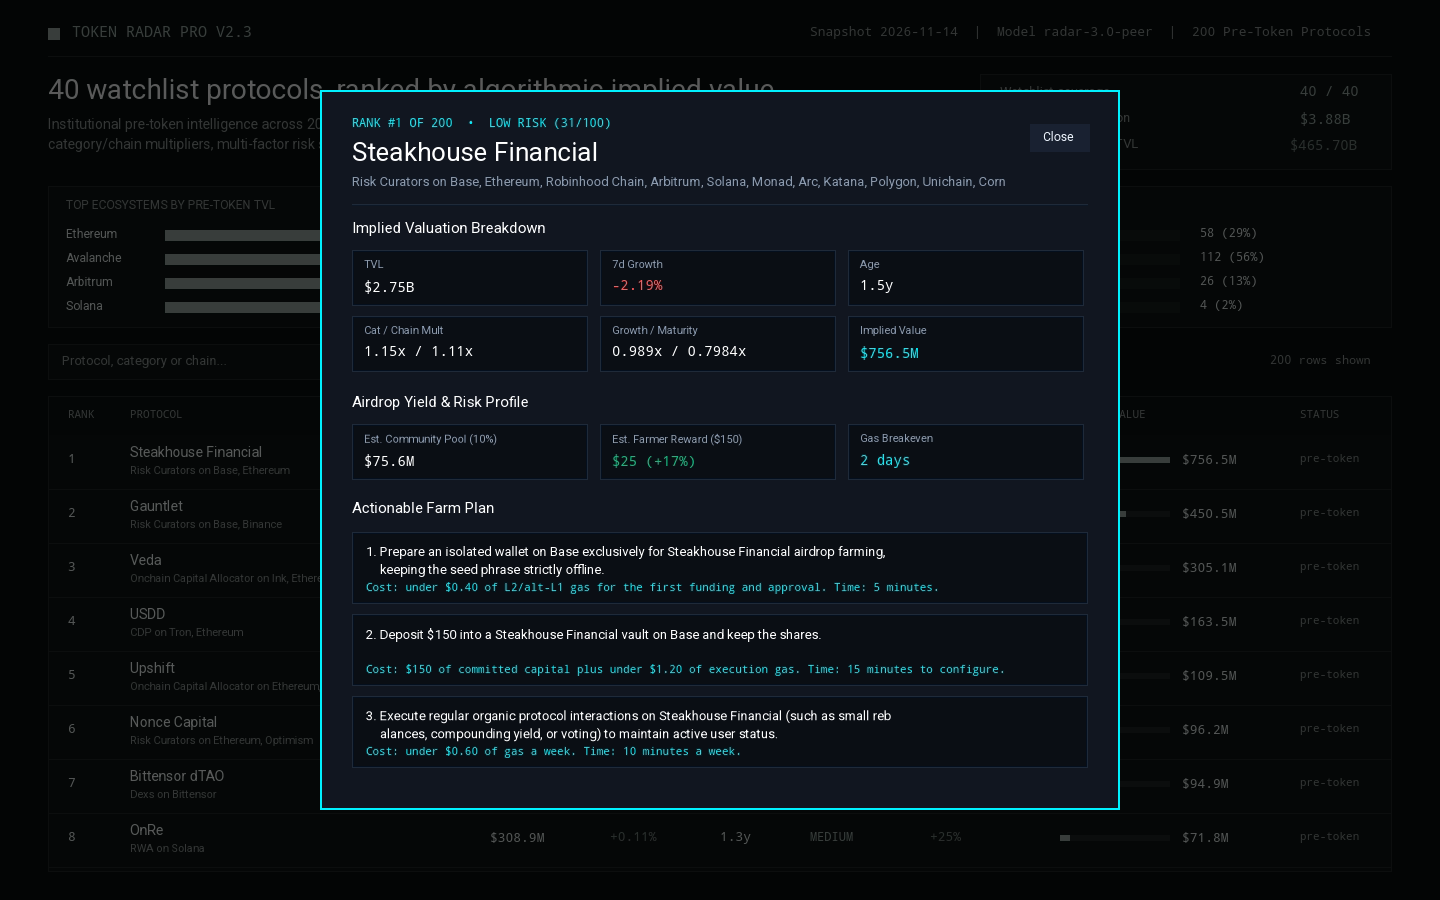
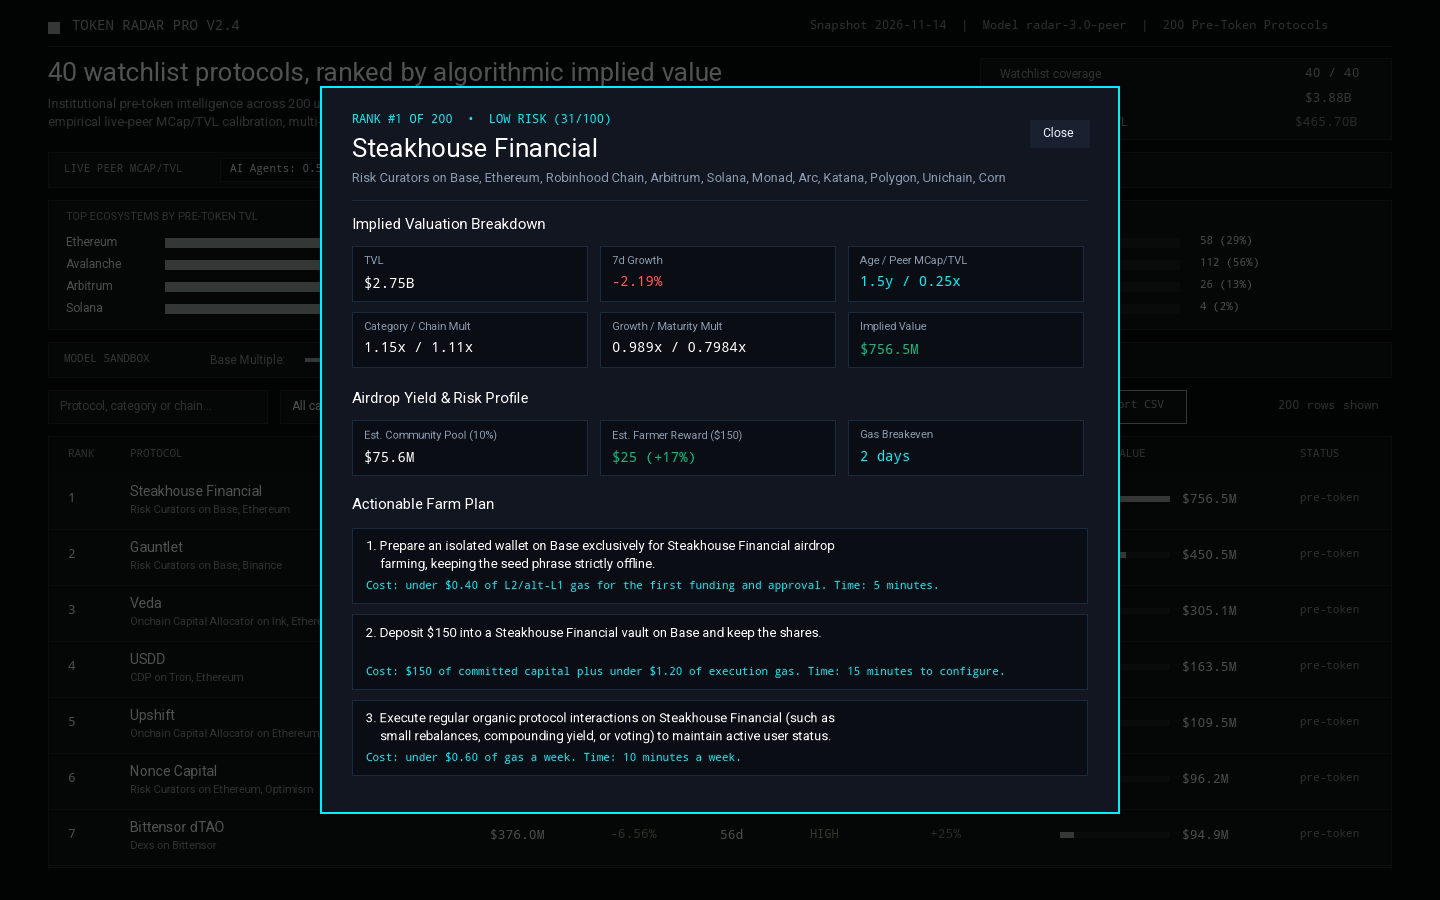
feat(v2.4): 100% client-server peer_multiples parity & full UI-synced screenshots

diff --git a/dashboard/app.js b/dashboard/app.js
@@ -82,7 +82,7 @@
     return medians;
   }
 
-  var PEER_MULTIPLES = computePeerMultiples();
+  var PEER_MULTIPLES = DATA.peer_multiples || computePeerMultiples();
 
   function impliedOf(row, baseM, growW) {
     var m = DATA.model;
@@ -278,7 +278,7 @@
     return el('header', { class: 'top' },
       el('div', { class: 'brand' },
         el('span', { class: 'mark', 'aria-hidden': 'true' }),
-        el('span', { class: 'brand-name', text: 'Token Radar Pro v2.3' })
+        el('span', { class: 'brand-name', text: 'Token Radar Pro v2.4' })
       ),
       el('div', { class: 'top-meta' },
         el('span', { text: 'Snapshot ' + DATA.as_of }),
@@ -616,12 +616,15 @@
       el('button', { class: 'close', type: 'button', 'aria-label': 'Close details', text: 'Close', onclick: function () { dialog.close(); } })
     ));
 
+    var peerBase = (row.category && PEER_MULTIPLES[row.category] !== undefined && state.baseMult === DATA.model.base_multiple)
+      ? PEER_MULTIPLES[row.category]
+      : state.baseMult;
     dialog.appendChild(el('section', { class: 'detail-section' },
       el('h3', { text: 'Implied Valuation Breakdown' }),
       el('div', { class: 'equation' },
         el('div', null, el('span', { text: 'TVL' }), el('b', { class: 'num', text: fmtUsd(row.tvl_usd) })),
         el('div', null, el('span', { text: '7d Growth' }), el('b', { class: 'num', text: fmtPct(row.change_7d) })),
-        el('div', null, el('span', { text: 'Age' }), el('b', { class: 'num', text: fmtAge(row.age_days) })),
+        el('div', null, el('span', { text: 'Age / Peer MCap/TVL' }), el('b', { class: 'num', text: fmtAge(row.age_days) + ' / ' + peerBase.toFixed(2) + 'x' })),
         el('div', null, el('span', { text: 'Category / Chain Mult' }), el('b', { class: 'num', text: categoryMultiplier(row.category).toFixed(2) + 'x / ' + chainMultiplier(row.chains).toFixed(2) + 'x' })),
         el('div', null, el('span', { text: 'Growth / Maturity Mult' }), el('b', { class: 'num', text: row.growth_multiplier + 'x / ' + row.maturity_multiplier + 'x' })),
         el('div', null, el('span', { text: 'Implied Value' }), el('b', { class: 'num pos', text: fmtUsd(imp) }))

diff --git a/lib/model.ts b/lib/model.ts
@@ -144,6 +144,7 @@ export interface RadarData {
   board_size: number;
   early_size: number;
   live_size: number;
+  peer_multiples?: Record<string, number>;
   rows: RadarRow[];
   live: LiveRow[];
 }
@@ -458,6 +459,7 @@ export function radarRow(row: BoardRow): RadarRow {
 
 /** Everything the dashboard renders, from the snapshot. */
 export function buildRadar(snapshot: Snapshot, model: ModelConstants = MODEL): { board: BoardRow[]; radar: RadarData } {
+  const peerMultiples = computePeerMultiples(snapshot.protocols, model.base_multiple);
   const board = buildBoard(snapshot, model);
   const live = liveRows(snapshot);
   const early = board.filter((r) => !snapshot.watchlist.includes(r.slug)).length;
@@ -471,6 +473,7 @@ export function buildRadar(snapshot: Snapshot, model: ModelConstants = MODEL): {
     board_size: board.length,
     early_size: early,
     live_size: live.length,
+    peer_multiples: Object.fromEntries(peerMultiples),
     rows: board.map(radarRow),
     live,
   };
